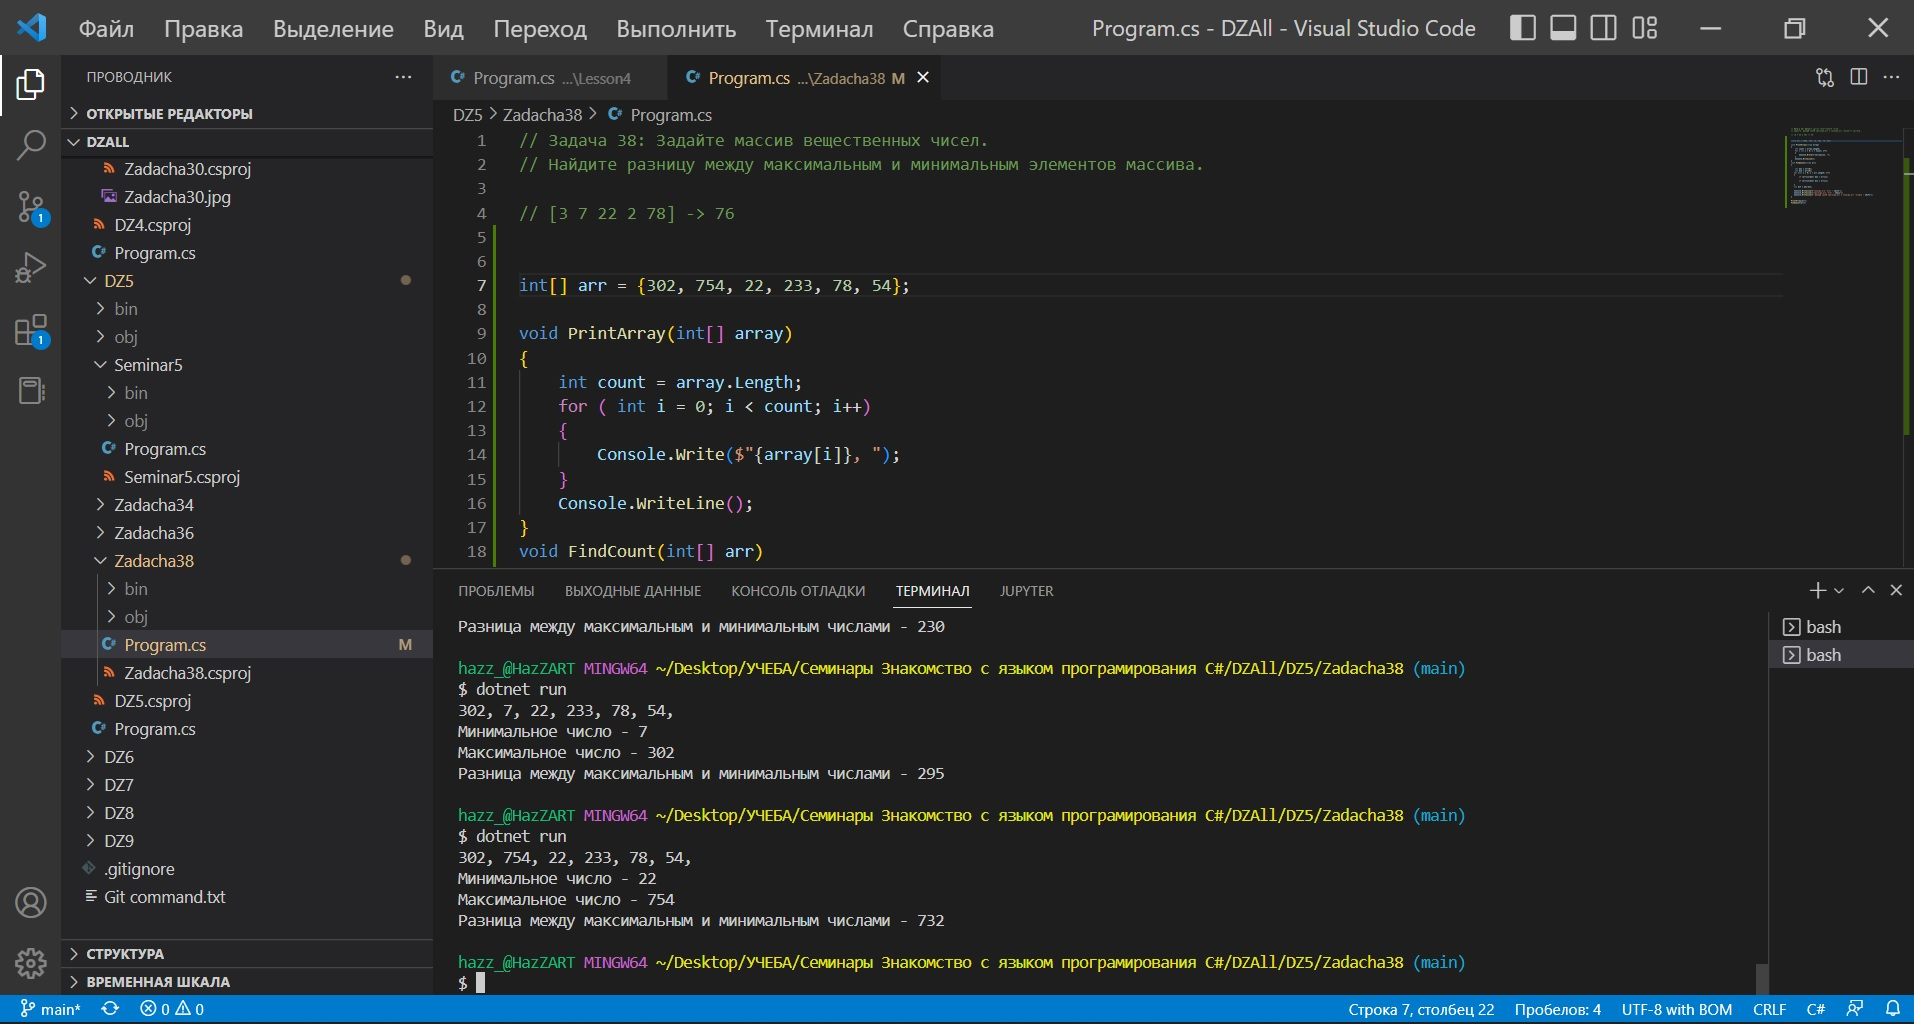
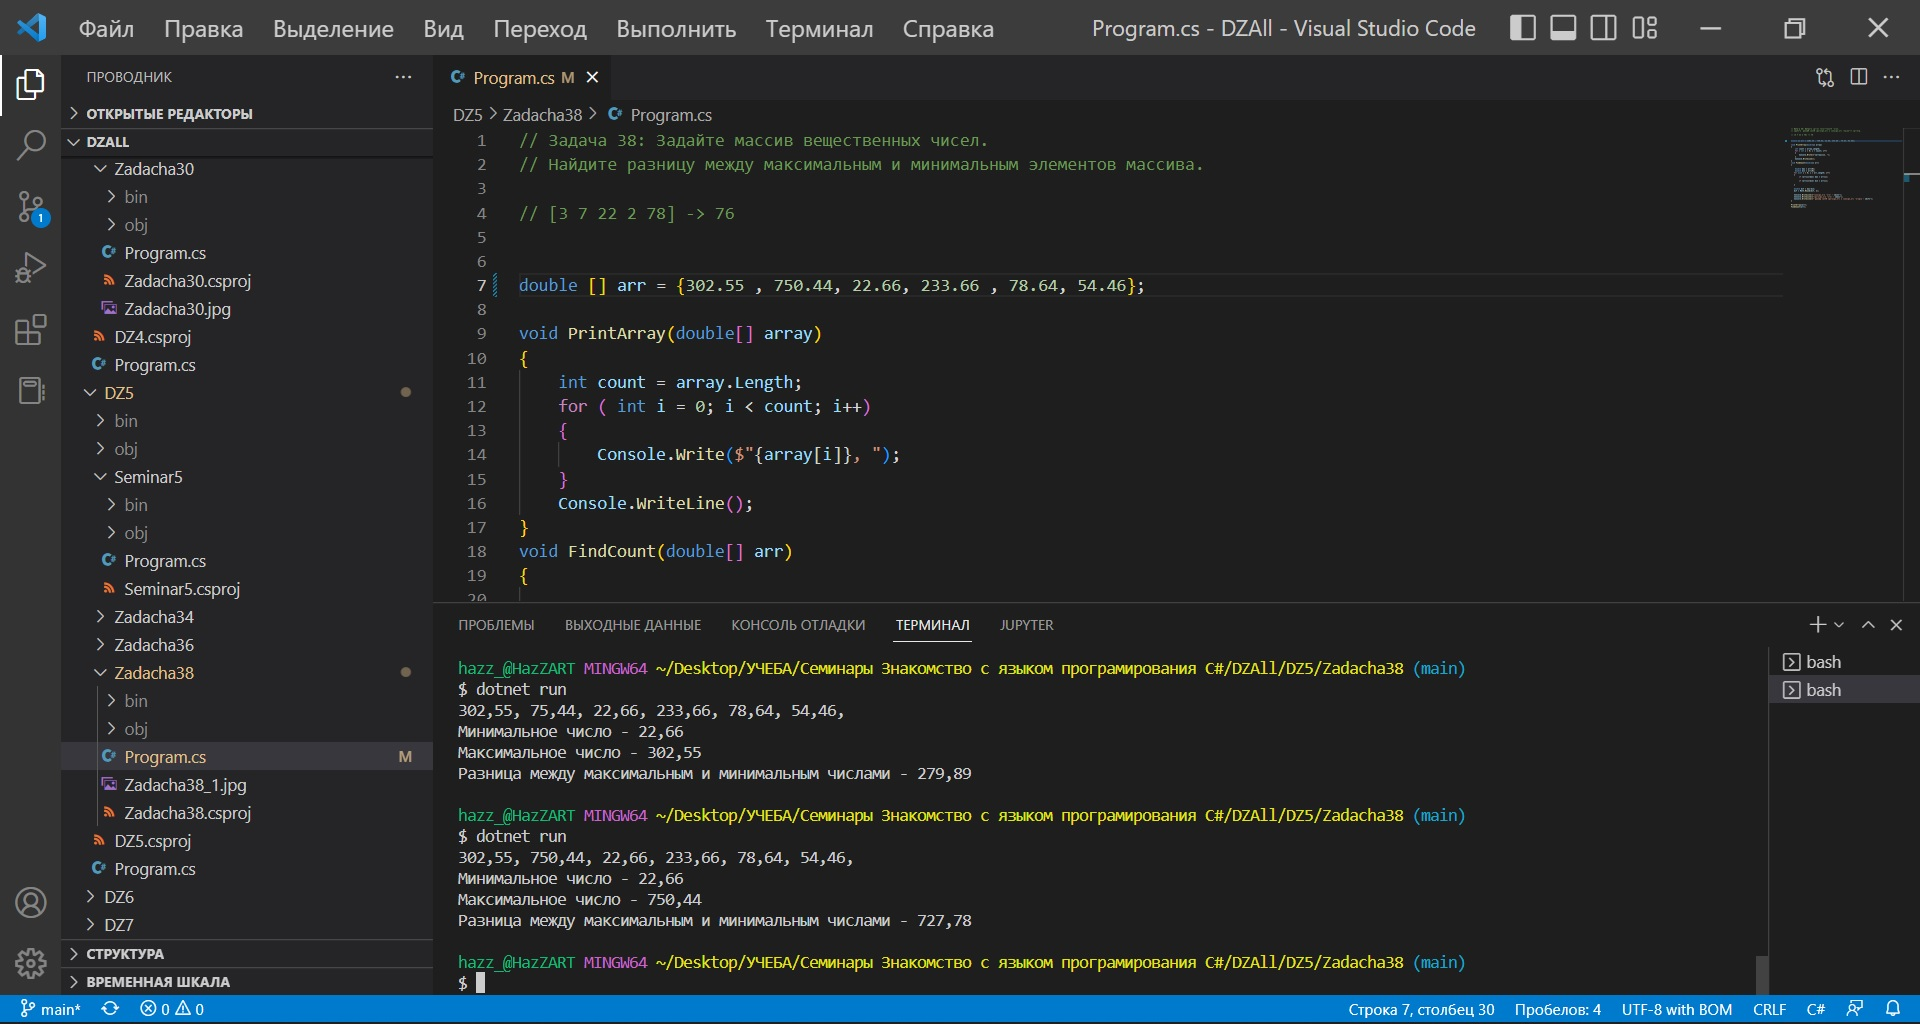
Fixed Zadacha 38

diff --git a/DZ5/Zadacha38/Program.cs b/DZ5/Zadacha38/Program.cs
@@ -4,7 +4,7 @@
 // [3 7 22 2 78] -> 76
 
 
-double [] arr = {302.55 , 75.44, 22.66, 233.66 , 78.64, 54.46};
+double [] arr = {302.55 , 750.44, 22.66, 233.66 , 78.64, 54.46};
 
 void PrintArray(double[] array)
 {
